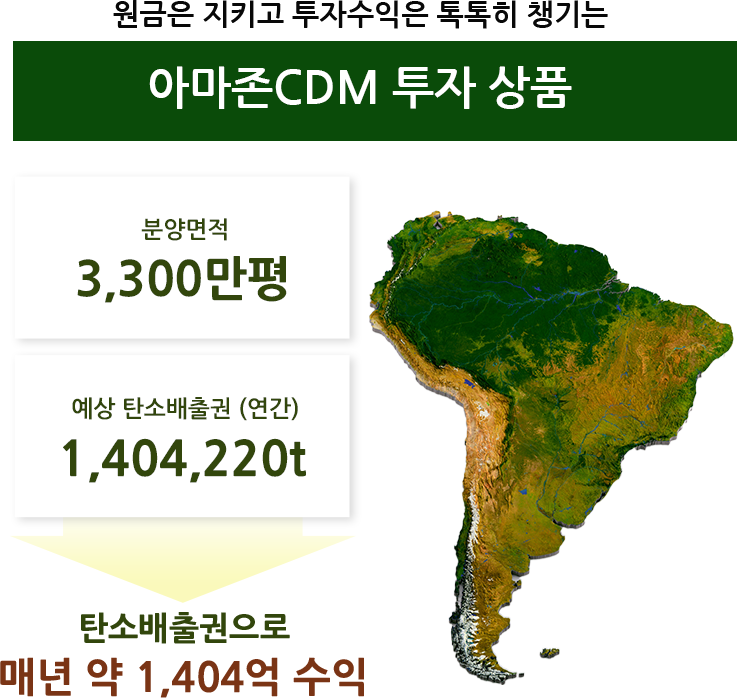
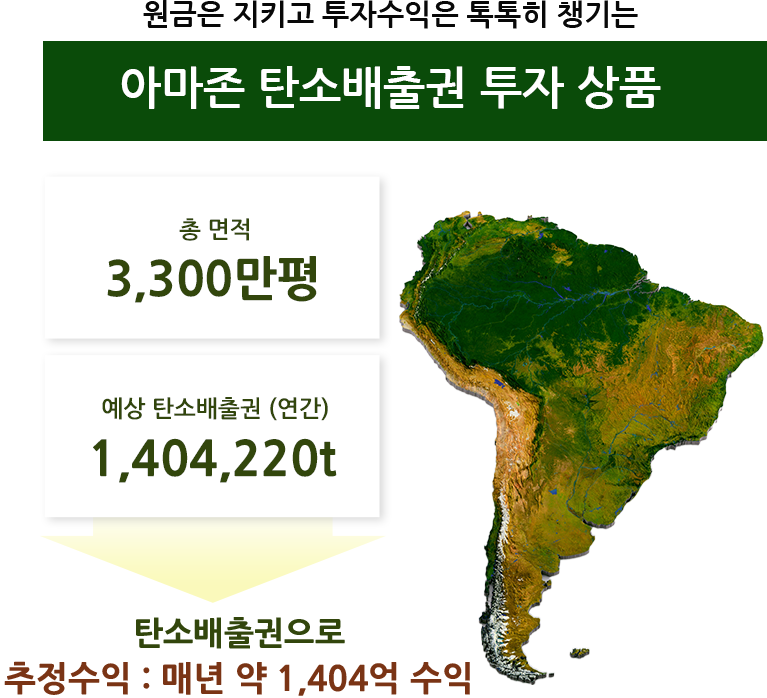
텍스트 변경

diff --git a/index.html b/index.html
@@ -177,7 +177,7 @@
                 <div>
                     <span></span>
                     <h3>
-                        <mark class="green">“아마존 땅”</mark> 분양받고<br>
+                        <mark class="green">“아마존 땅”</mark> NFT구매하고<br>
                         <mark class="brown">“탄소배출권”</mark>으로 수익내자 
                     </h3>
                     <p class="mobile">
@@ -252,7 +252,7 @@
                         <li class="mobile">2. <mark class="brown2">연간 수익률은 15%</mark>이며, 중도거래 시 부가수익 창출</li>
                         <li class="desktop">3. 페루 아마존은 토지는 <mark class="brown2">35년동안 소유</mark>되며, <mark class="brown2">중도거래 가능</mark>합니다. </li>
                         <li class="mobile">3. 아마존 토지 <mark class="brown2">35년동안 소유</mark>, <mark class="brown2">중도거래 가능</mark></li>
-                        <li>4. 탄소배출권 수익이 나지 않을 시 <mark class="brown2">100% 원금을 환불</mark><span class="desktop">해드립니다.</span></li>
+                        <li>4. 탄소배출권 수익이 나지 않을 시 <mark class="brown2">투자금 100% 환불</mark><span class="desktop">해드립니다.</span></li>
                         <li class="desktop">5. 아마존 CDM은 <mark class="brown2">환경과 수익</mark>을 동시에 챙기는 스마트한 투자상품입니다. </li>
                         <li class="mobile">5.분기별로 (3개월 단위) <mark class="brown2">수익금 입금</mark></li>
                     </ol>
@@ -276,15 +276,15 @@
                 <div>
                     <span></span>
                     <h3 class="pLeft01">
-                        투자 원금 100%보장<br>
+                        투자금 100%보장<br>
                         한국투자금융 보증서 제공
                     </h3>
                     <p class="pLeft01">
-                        계약 시 원금의 100% 보장하는<br>
-                        한국투자금융의 보증서<span class="desktop">를</span> 제공<span class="desktop">해드립니다</span>
+                        안전한 투자를 위해 계약사 투자금의 100% 보장을<br>
+                        약속하는 한국투자금융의 지급보증서를 제공해드립니다
                     </p>
                     <div class="pLeft01 desktop">
-                        <mark class="green">원금보호</mark>
+                        <mark class="green">투자금보호</mark>
                         <p>
                             <mark>100%</mark>
                         </p>
@@ -352,9 +352,9 @@
                         <li>
                             <mark>보증서 지급</mark>
                             <p>
-                                한국투자금융의 원금보호<br class="desktop">
-                                보증서 및<br class="mobile"> 메타하이퍼<br class="desktop">
-                                수익보장 보증서를<br class="desktop">
+                                한국투자금융의<br class="desktop">
+                                투자금보호보증서 및<br>
+                                메타하이퍼 계약안심증서를<br class="desktop">
                                 제공받습니다.
                             </p>
                         </li>

diff --git a/css/page.css b/css/page.css
@@ -89,8 +89,8 @@
     .productArea > ol > li > div ol li{font-size: 2.188rem; padding: 3.125rem; border-radius: 10rem; box-shadow: 0.313rem 0.313rem 1.250rem -0.625rem rgba(0, 0, 0, 0.5);}
     .productArea > ol > li > div ol li:not(:last-child){margin-bottom: 2.500rem;}
     .productArea > ol > li.revenueArea div{padding-bottom: 31.250rem; background: url('../images/revenueImg.png') no-repeat center bottom / 85%;}
-    /* .productArea > ol > li.investArea > div .popupArea{display: flex;} */
     .productArea > ol > li.investArea > div{padding: 5rem 55% 5rem 0; background: url('../images/investImg.png') no-repeat right center / 50%}
+    /* .productArea > ol > li.investArea > div .popupArea{display: flex;} */
     .productArea > ol > li.investArea > div .popupArea > div{padding: 3.438rem 1.250rem 1.250rem;  text-align: center;}
     .productArea > ol > li.investArea > div .popupArea > div fieldset legend{display: block; font-size: 2.188rem; font-weight: 800; color: #05354d; margin-bottom: 1.250rem;}
     .productArea > ol > li.investArea > div .popupArea > div fieldset input[type="text"]{width: 21.250rem; height: 2.625rem; border: 1px solid #a7a7a7; border-radius: 0.625rem; text-align: center; box-sizing: border-box; margin-bottom: 0.938rem;}
@@ -113,7 +113,7 @@
     .productArea > ol > li.certificationArea{display: flex; align-items: center; gap: 3.125rem;}
     .productArea > ol > li.certificationArea > *{flex: 1;}
     .productArea > ol > li.certificationArea > div h3{margin-bottom: 2.188rem;}
-    .productArea > ol > li.certificationArea > div > p{margin-bottom: 3.750rem;}
+    .productArea > ol > li.certificationArea > div > p{margin-bottom: 3.750rem; letter-spacing: -0.5px;}
     .productArea > ol > li.certificationArea > div div{font-weight: 700;}
     .productArea > ol > li.certificationArea > div div > mark{display: block; font-size: 5.625rem; margin-bottom: 2.188rem;}
     .productArea > ol > li.certificationArea > div div p{margin-bottom: 2.500rem;}

diff --git a/js/common.js b/js/common.js
@@ -116,6 +116,8 @@ function proceedsInput(){
     
     // 수익금 인풋
     $('#proceeds').on('input keydoun',function(e){
+        this.value = this.value.replaceAll(',', '').replace('만원','')
+        console.log(this.value);
         this.value = this.value.replace(/[^0-9.]/g, '').replace(/(\..*)\./g, '$1');
         let value = this.value;
         if(value === ''){return}
@@ -128,13 +130,13 @@ function proceedsInput(){
         proceedsValue(value)
     })
 
-    function proceedsValue(value){
+    function proceedsValue(value , selector){
         const result = Number(value);
         let valueLength = value.length;
         valueLength > 3 && (valueLength = valueLength+1);
         valueLength > 5 && (valueLength = valueLength+1);
         valueLength >= 10 && (valueLength = valueLength + ( Math.floor((valueLength - 7) / 3)))
-
+        $('#proceeds').attr('data-save',result)
         $('#proceeds').val(test(result));
         $('#proceeds').selectRange(valueLength);
         $('[data-proceeds="year"]').html(test(Math.floor((result * 0.15))))
